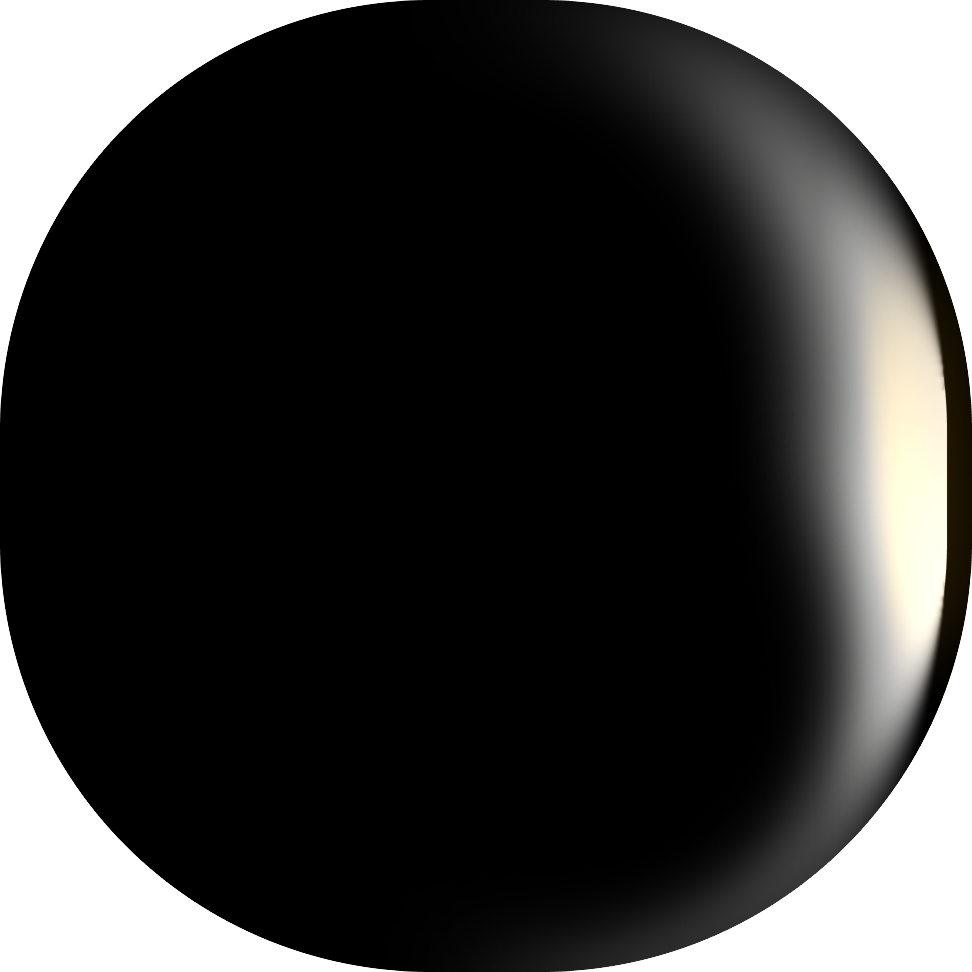
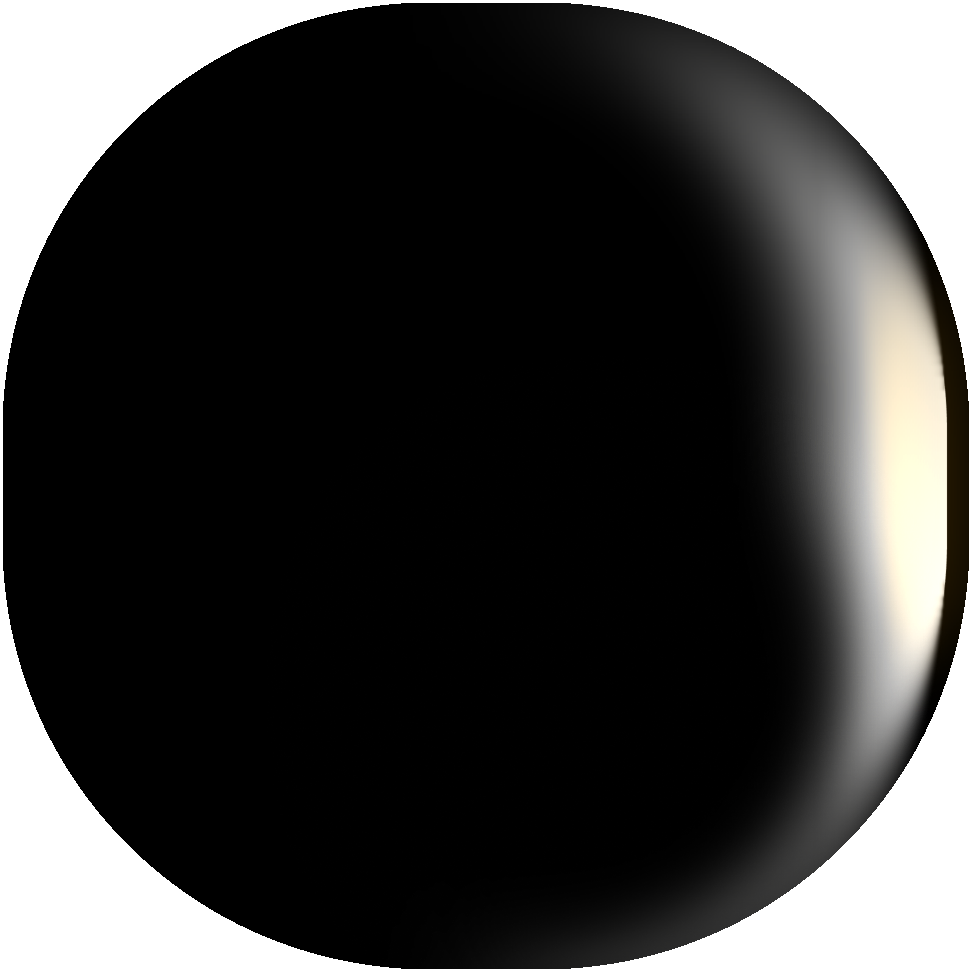
fix(simulator): 去除 Pool UI 外圈白色细线
- 对 10 张 Figma 关键帧 PNG 的 alpha 边界做 3px 形态学侵蚀，
  从资源层删除约 1px 的白色轮廓
- 删除侧缘 rim 发光与 swirl，只保留正面 UI 发光
- Shader 增加随 n 值变化的超椭圆潭边安全区
- 保持镜面玻璃原材质参数与环境反射不变
- TECH-STACK.md 记录定位过程与最终根因

diff --git a/visual-watch/apps/simulator/src/dial/PoolVolume.tsx b/visual-watch/apps/simulator/src/dial/PoolVolume.tsx
@@ -31,6 +31,7 @@ varying vec3 vWorldPos;
 
 uniform vec3 uHalf;        // 壳层半径 a,b,c
 uniform vec2 uUvHalf;      // 光场 xy 半径（uv 映射范围）
+uniform float uN;          // 超椭圆指数
 uniform sampler2D uTexOldA;
 uniform sampler2D uTexOldB;
 uniform sampler2D uTexNewA;
@@ -41,16 +42,26 @@ uniform float uWOld;       // 渡越权重（旧）
 uniform float uWNew;       // 渡越权重（新）
 uniform float uBreathOld;  // 呼吸亮度（旧）
 uniform float uBreathNew;  // 呼吸亮度（新）
-uniform float uSwirl;      // 边缘流动相位（弧度）
+
+// 轻微裁掉 PNG 最外层抗锯齿像素
+vec2 cropFigmaUv(vec2 uv) {
+  return 0.5 + (uv - 0.5) * 0.985;
+}
 
 // 新旧状态 × 各两帧关键帧的混合采样；uv 越界处返回 0（防止 clamp 拉丝）
 vec3 blendedField(vec2 uvRaw) {
   float mask = step(abs(uvRaw.x - 0.5), 0.494) * step(abs(uvRaw.y - 0.5), 0.494);
   if (mask < 0.5) return vec3(0.0);
-  vec4 texOld = mix(texture2D(uTexOldA, uvRaw), texture2D(uTexOldB, uvRaw), uMixOld);
-  vec4 texNew = mix(texture2D(uTexNewA, uvRaw), texture2D(uTexNewB, uvRaw), uMixNew);
-  return texOld.rgb * texOld.a * uWOld * uBreathOld
-       + texNew.rgb * texNew.a * uWNew * uBreathNew;
+  // Figma 图中自带一圈白色轮廓；按真实表壳 n 值建立超椭圆安全区，
+  // 在潭边平滑衰减 UI，玻璃反射不受影响
+  vec2 q = abs((uvRaw - 0.5) * 2.0);
+  float rho2d = pow(q.x, uN) + pow(q.y, uN);
+  float safeArea = 1.0 - smoothstep(0.88, 0.985, rho2d);
+  vec2 uv = cropFigmaUv(uvRaw);
+  vec4 texOld = mix(texture2D(uTexOldA, uv), texture2D(uTexOldB, uv), uMixOld);
+  vec4 texNew = mix(texture2D(uTexNewA, uv), texture2D(uTexNewB, uv), uMixNew);
+  return (texOld.rgb * texOld.a * uWOld * uBreathOld
+       + texNew.rgb * texNew.a * uWNew * uBreathNew) * safeArea;
 }
 
 void main() {
@@ -62,15 +73,7 @@ void main() {
   vec2 uv = 0.5 + vWorldPos.xy / (2.0 * uUvHalf);
   vec3 ui = blendedField(uv) * pow(frontness, 1.25) * 1.35;
 
-  // —— 边缘环绕（Pool 余韵）：侧缘微弱光带缓慢流动，不透出内部 ——
-  float sideness = smoothstep(0.75, 0.15, abs(zn));
-  float ang = uSwirl;
-  float cs = cos(ang);
-  float sn = sin(ang);
-  vec2 xySwirl = mat2(cs, -sn, sn, cs) * vWorldPos.xy;
-  vec3 rim = blendedField(0.5 + xySwirl / (2.0 * uUvHalf)) * sideness * (1.0 - frontness) * 0.22;
-
-  vec3 col = ui + rim;
+  vec3 col = ui;
   // 软压缩防高光带过曝
   col = col / (1.0 + col * 0.3);
 
@@ -92,8 +95,8 @@ interface PoolVolumeProps {
  *
  * 与镜面玻璃共面（同一挤出曲面，微放大避免 z-fight），加法混合：
  * 玻璃负责镜面反射，本层负责 UI 自发光，两者叠加 =「玻璃同时具有
- * 镜面与 UI 演示效果」。正面是 Figma 光场 UI，侧缘保留微弱的
- * 环绕流动光带（Pool 余韵），不再透视内部体积。
+ * 镜面与 UI 演示效果」。只在正面显示 Figma 光场 UI；侧缘不发光，
+ * 避免形成白色轮廓线。
  */
 export function PoolVolume({ params, dialId, textures, renderOrder = 10 }: PoolVolumeProps) {
   const geometry = useMemo(
@@ -134,6 +137,7 @@ export function PoolVolume({ params, dialId, textures, renderOrder = 10 }: PoolV
       uniforms: {
         uHalf: { value: new THREE.Vector3(1, 1, 1) },
         uUvHalf: { value: new THREE.Vector2(1, 1) },
+        uN: { value: 4.5 },
         uTexOldA: { value: placeholder },
         uTexOldB: { value: placeholder },
         uTexNewA: { value: placeholder },
@@ -144,7 +148,6 @@ export function PoolVolume({ params, dialId, textures, renderOrder = 10 }: PoolV
         uWNew: { value: 1 },
         uBreathOld: { value: 1 },
         uBreathNew: { value: 1 },
-        uSwirl: { value: 0 },
       },
       transparent: true,
       blending: THREE.AdditiveBlending,
@@ -160,6 +163,7 @@ export function PoolVolume({ params, dialId, textures, renderOrder = 10 }: PoolV
 
     u.uHalf.value.set(params.a * SHELL_SCALE, params.b * SHELL_SCALE, params.c * SHELL_SCALE)
     u.uUvHalf.value.set(params.a * FIELD_INSET, params.b * FIELD_INSET)
+    u.uN.value = params.n
 
     const cur = DIAL_STATE_MAP[states.current]
     const prev = DIAL_STATE_MAP[states.previous]
@@ -190,8 +194,6 @@ export function PoolVolume({ params, dialId, textures, renderOrder = 10 }: PoolV
       u.uWOld.value = 0
     }
 
-    // 边缘环绕流动：缓慢往返摆动（约 14s 周期）
-    u.uSwirl.value = 0.32 * Math.sin((t * Math.PI * 2) / 14)
   })
 
   return <mesh geometry={geometry} material={material} renderOrder={renderOrder} />

diff --git a/visual-watch/apps/simulator/src/shape/FrontViewPreview.tsx b/visual-watch/apps/simulator/src/shape/FrontViewPreview.tsx
@@ -109,7 +109,7 @@ export function FrontViewPreview({ params, dialId, lights }: FrontViewPreviewPro
           {`${(params.a * 2).toFixed(1)} × ${(params.b * 2).toFixed(1)} × ${(params.c * 2).toFixed(1)} mm · ${state.label} · ${state.labelEn}`}
         </span>
         <span className="white-model-spec__hint">
-          镜面玻璃 = 反射 + UI 演示 · 侧缘光带环绕 · 呼吸 {state.breathBpm}bpm · 拖拽旋转
+          镜面玻璃 = 反射 + UI 演示 · 呼吸 {state.breathBpm}bpm · 拖拽旋转
         </span>
       </footer>
     </div>

diff --git a/visual-watch/apps/simulator/TECH-STACK.md b/visual-watch/apps/simulator/TECH-STACK.md
@@ -44,8 +44,8 @@
 ### 2.3 正视预览（镜面玻璃 Pool · UI 直接演示在玻璃上）
 
 **产品定义**：玻璃同时具有**镜面反射**与 **UI 演示**两种效果——UI 不在
-玻璃内部深处，而是直接浮现在镜面玻璃表面上（如手机屏）；侧缘保留
-微弱的光带环绕（Pool 余韵）。
+玻璃内部深处，而是直接浮现在镜面玻璃表面上（如手机屏）；侧缘不发光，
+避免形成额外轮廓线。
 
 数据流：
 
@@ -66,8 +66,8 @@ Figma 表盘页（sZDBW36idsJ7op8FVhYq6W）
     `AdditiveBlending` —— 反射 + 自发光在同一表面叠加
 - **UI 显示层**：`frontness^1.25` 只作用于正面半球，按表面点 xy 采样
   Figma 光场 —— UI 稳定、清晰、无噪声
-- **侧缘环绕**：赤道带（`sideness`）按 swirl 摆动采样光场 ×0.22 ——
-  光带沿边缘缓慢流动，但不透视内部（保持镜面质感）
+- **潭边安全区**：按当前 n 值计算二维超椭圆遮罩，UI 在接近边缘时
+  平滑衰减；侧缘只保留玻璃本身的镜面反射
 - **动画 uniform 化**：关键帧 morph（余弦往返）、呼吸 envelope（4–7bpm）、
   900ms 状态渡越全部 uniform 驱动，新旧状态 ×各两帧（4 sampler）单 pass 混合
 - **场景结构**：镜面玻璃壳 + Pool 发光壳层 + OrbitControls 拖拽旋转
@@ -84,6 +84,17 @@ Figma 表盘页（sZDBW36idsJ7op8FVhYq6W）
 ## 3. 演进日志（技术变更 ↔ 效果变化）
 
 > 倒序排列。每条记录：**改了什么技术 → 效果为什么变好/变坏**。
+
+### 2026-07-11 · 去除 UI 外圈白色细线
+
+- **问题定位**：先测试降低玻璃 transmission / clearcoat / specular，细线不变；
+  将 Pool 发光层整体置零后细线消失；随后移除侧缘 `rim` 仍存在，最后对
+  PNG 逐像素检查发现每张 Figma 关键帧透明边界内确有约 1px 白色轮廓
+- **变更**：
+  1. 对 10 张 PNG 的 alpha 边界做 3px 形态学侵蚀，从资源层彻底删除白边
+  2. 删除侧缘 `rim` 发光及 swirl uniform，只保留正面 UI 发光
+  3. Shader 保留按当前 n 值计算的超椭圆潭边安全区
+- **效果变化**：✅ UI 外圈白线消失；镜面玻璃自身的环境反射高光不受影响
 
 ### 2026-07-11 · 镜面玻璃 Pool：透视内腔 → UI 直接演示在镜面玻璃上
 
@@ -200,5 +211,5 @@ Figma 表盘页（sZDBW36idsJ7op8FVhYq6W）
 | PNG 白底泛洪转 alpha | Figma 导出的 PNG 背景是不透明白色；构建期一次性处理，运行时零开销 |
 | 表面壳层 vs 体积 raymarch | 体积雾透视内腔会牺牲镜面质感（玻璃「变透明」）；产品定义是表面复合（镜面+UI 同面），共面壳层加法混合即可，且零 raymarch 开销 |
 | 加法混合 vs transmission 透射 | transmission 渲染内部物体依赖折射通道，暗色玻璃下几乎不可见；加法混合直接把 UI 光叠加在玻璃着色之上，效果直观且省一次透射 pass |
-| 侧缘环绕系数 0.22 | 太强会让侧面像透光的灯罩、破坏镜面；0.22 保留「光在边缘流动」的暗示又不损质感 |
+| 侧缘发光 | 已移除；它在正视角形成白色细轮廓，破坏 UI 与镜面的融合。侧缘现在只显示玻璃自身反射 |
 | watchCaseGeometry chunk 较大（~880KB） | Three.js 主体；已按标签页懒加载，首屏不受影响 |
